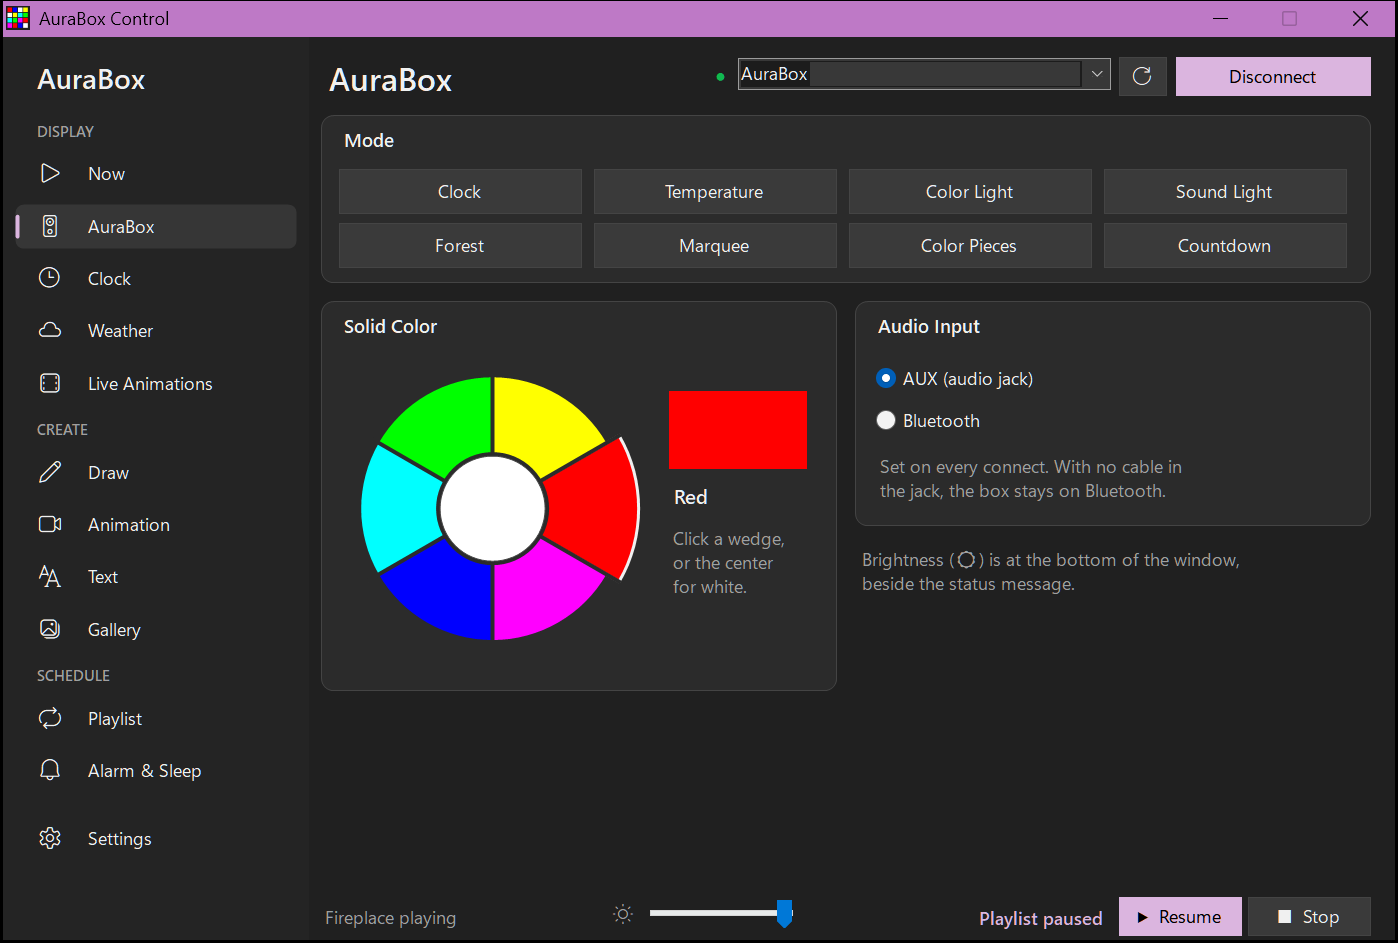
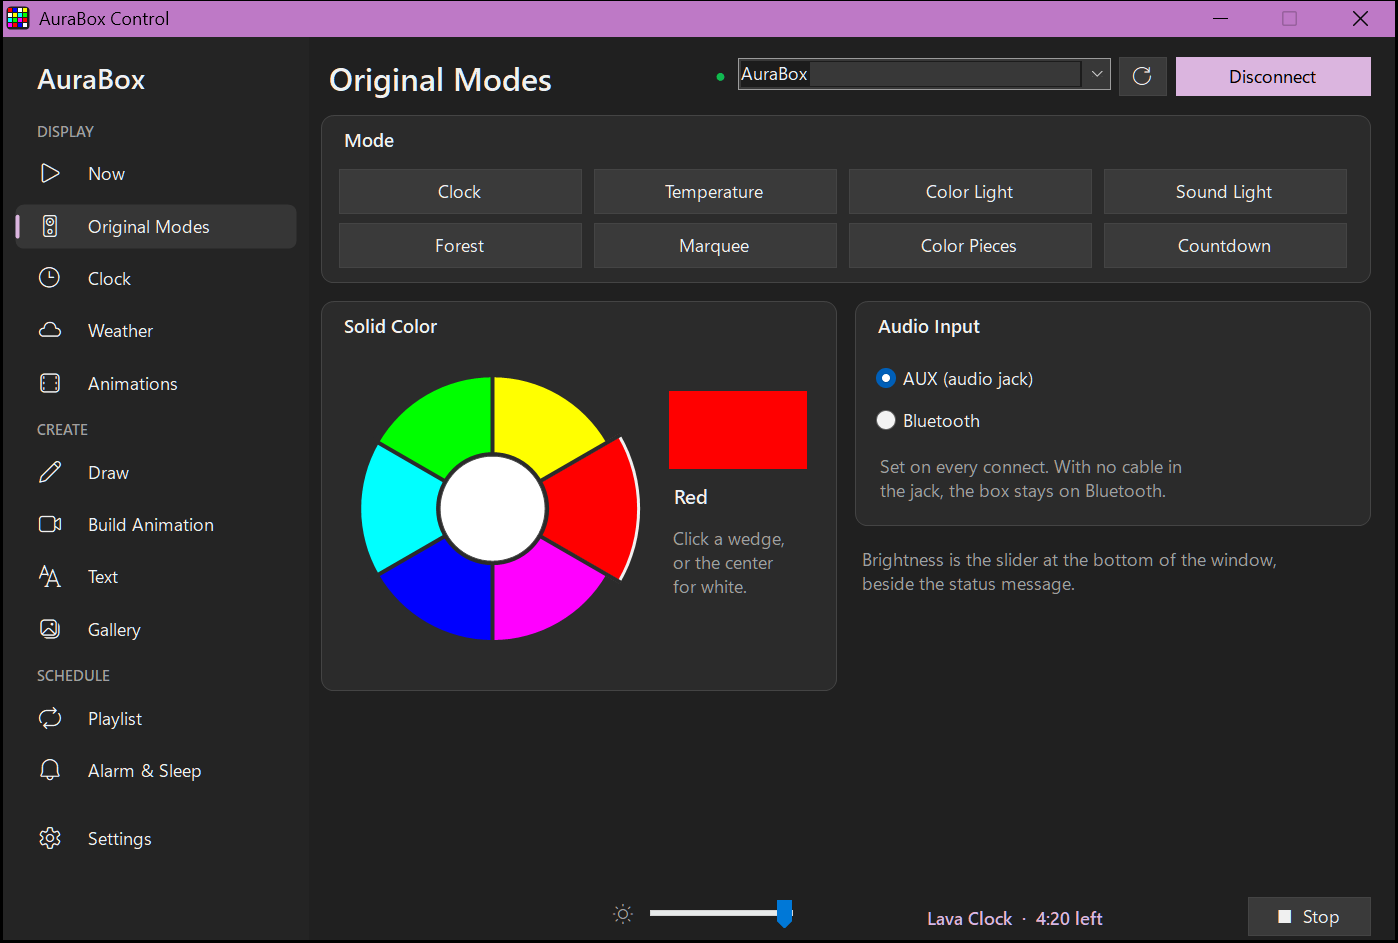
Rename pages: Original Modes, Animations, Build Animation

diff --git a/MainForm.cs b/MainForm.cs
@@ -93,13 +93,13 @@ namespace AuraBoxControl
             // sidebar groups; the page order here is the sidebar order
             AddGroup("Display");
             AddPage("\uE768", "Now", BuildNowPage());
-            AddPage("\uE7F5", "AuraBox", BuildBoxPage());
+            AddPage("\uE7F5", "Original Modes", BuildBoxPage());
             AddPage("\uE823", "Clock", BuildClockPage());
             AddPage("\uE753", "Weather", BuildWeatherPage());
-            AddPage("\uE8B2", "Live Animations", BuildLivePage());
+            AddPage("\uE8B2", "Animations", BuildLivePage());
             AddGroup("Create");
             AddPage("\uE70F", "Draw", BuildDrawPage());
-            AddPage("\uE714", "Animation", BuildAnimPage());
+            AddPage("\uE714", "Build Animation", BuildAnimPage());
             AddPage("\uE8D2", "Text", BuildTextPage());
             AddPage("\uE8B9", "Gallery", BuildGalleryPage());
             AddGroup("Schedule");
@@ -822,7 +822,7 @@ namespace AuraBoxControl
                         case ImportAction.AddFrames:
                             foreach (var f in d.Frames) if (frames.Count < 8) frames.Add(f);
                             RefreshFrames();
-                            status.Text = "Added frames to the Animation page (" + frames.Count + "/8)";
+                            status.Text = "Added frames to the Build Animation page (" + frames.Count + "/8)";
                             break;
                     }
                 }
@@ -1052,7 +1052,7 @@ namespace AuraBoxControl
                 var it = shown[view.SelectedIndices[0]];
                 grid.SetAll(it.Frames[0]);
                 if (it.IsAnimation) { frames.Clear(); foreach (var f in Sample(it.Frames)) frames.Add((int[])f.Clone()); RefreshFrames(); }
-                status.Text = "Loaded “" + it.Name + "” into Draw" + (it.IsAnimation ? " and Animation" : "");
+                status.Text = "Loaded “" + it.Name + "” into Draw" + (it.IsAnimation ? " and Build Animation" : "");
             }));
             var playAll = Btn("Play All Frames From PC", 276, 462, 200, null);
             playAll.Click += delegate
@@ -1132,7 +1132,7 @@ namespace AuraBoxControl
             }, true));
             p.Controls.Add(card);
 
-            p.Controls.Add(Note("Built-in animations drawn by this PC (no frame limit) are on the Live Animations page.", 2, 228));
+            p.Controls.Add(Note("Built-in animations drawn by this PC (no frame limit) are on the Animations page.", 2, 228));
             return p;
         }
 
@@ -1318,7 +1318,7 @@ namespace AuraBoxControl
             p.Controls.Add(card);
 
             p.Controls.Add(Note("While the playlist runs, the clock is re-synced every 6 hours. Set how long each clock shows on the Playlist page.\r\n" +
-                                "The Lava Clock's options are on the Live Animations page.", 2, 282));
+                                "The Lava Clock's options are on the Animations page.", 2, 282));
             return p;
         }
 
@@ -1595,7 +1595,7 @@ namespace AuraBoxControl
 
         // ---------- playlist ----------
         // Turned-on items are listed first, in play order, with arrows to reorder them. Turned-off items wait below in
-        // sections (Clock & Weather, Live Animations, Box Modes, Your Content); turning one on adds it to the end.
+        // sections (Clock & Weather, Animations, Original Modes, Your Content); turning one on adds it to the end.
         Panel BuildPlaylistPage()
         {
             var p = NewPage();

diff --git a/UiKit.cs b/UiKit.cs
@@ -387,7 +387,7 @@ namespace AuraBoxControl
             { "snakes", "Snake Chase" }, { "blocks", "Falling Blocks" }, { "stars", "Hyperspace" }, { "rain", "Rain on a Window" }, { "fire", "Fireplace" }, { "balls", "Bouncing Balls" }, { "bricks", "Brick Breaker" }, { "laos", "Laos Flag" },{ "lava", "Lava Lamp" }, { "lavaclock", "Lava Clock" }, { "text", "Scrolling Text" }, { "drawing", "Current Drawing" }, { "animation", "Current Animation" } };
 
         // sections on the Playlist page for items that are turned off
-        public static readonly string[] Groups = { "Clock & Weather", "Live Animations", "Box Modes", "Your Content" };
+        public static readonly string[] Groups = { "Clock & Weather", "Animations", "Original Modes", "Your Content" };
 
         public string Group
         {

diff --git a/README.md b/README.md
@@ -34,9 +34,9 @@ that keeps going from the system tray.
   - Reconnects to the box automatically.
   - Settings backup and restore.
 
-| Live Animations | AuraBox page |
+| Animations | Original Modes |
 |---|---|
-| ![Live Animations page](docs/live.png) | ![AuraBox page](docs/aurabox.png) |
+| ![Animations page](docs/live.png) | ![Original Modes page](docs/aurabox.png) |
 
 ![Settings page](docs/settings.png)
 
